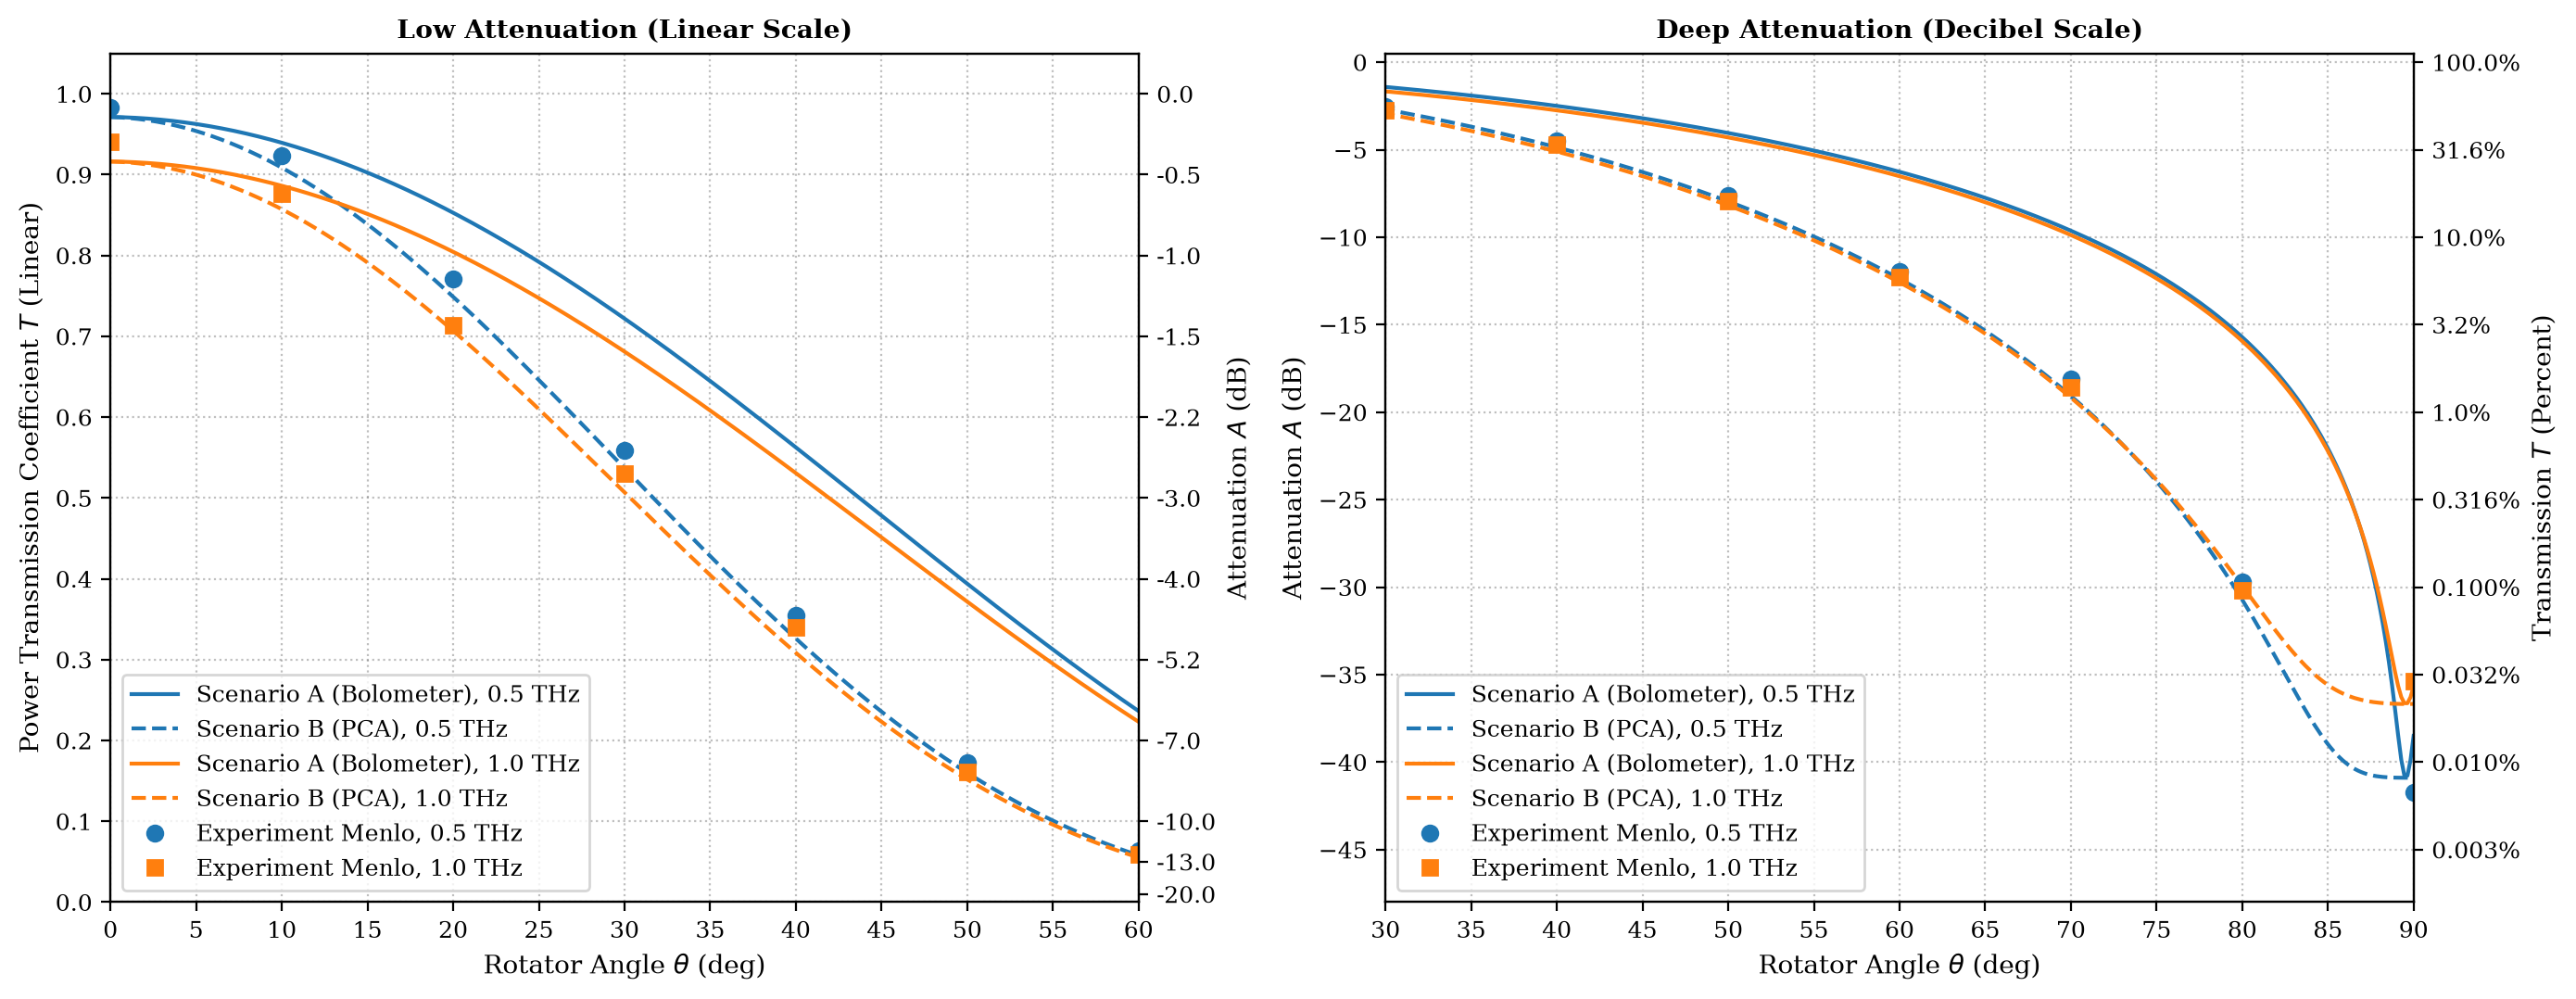
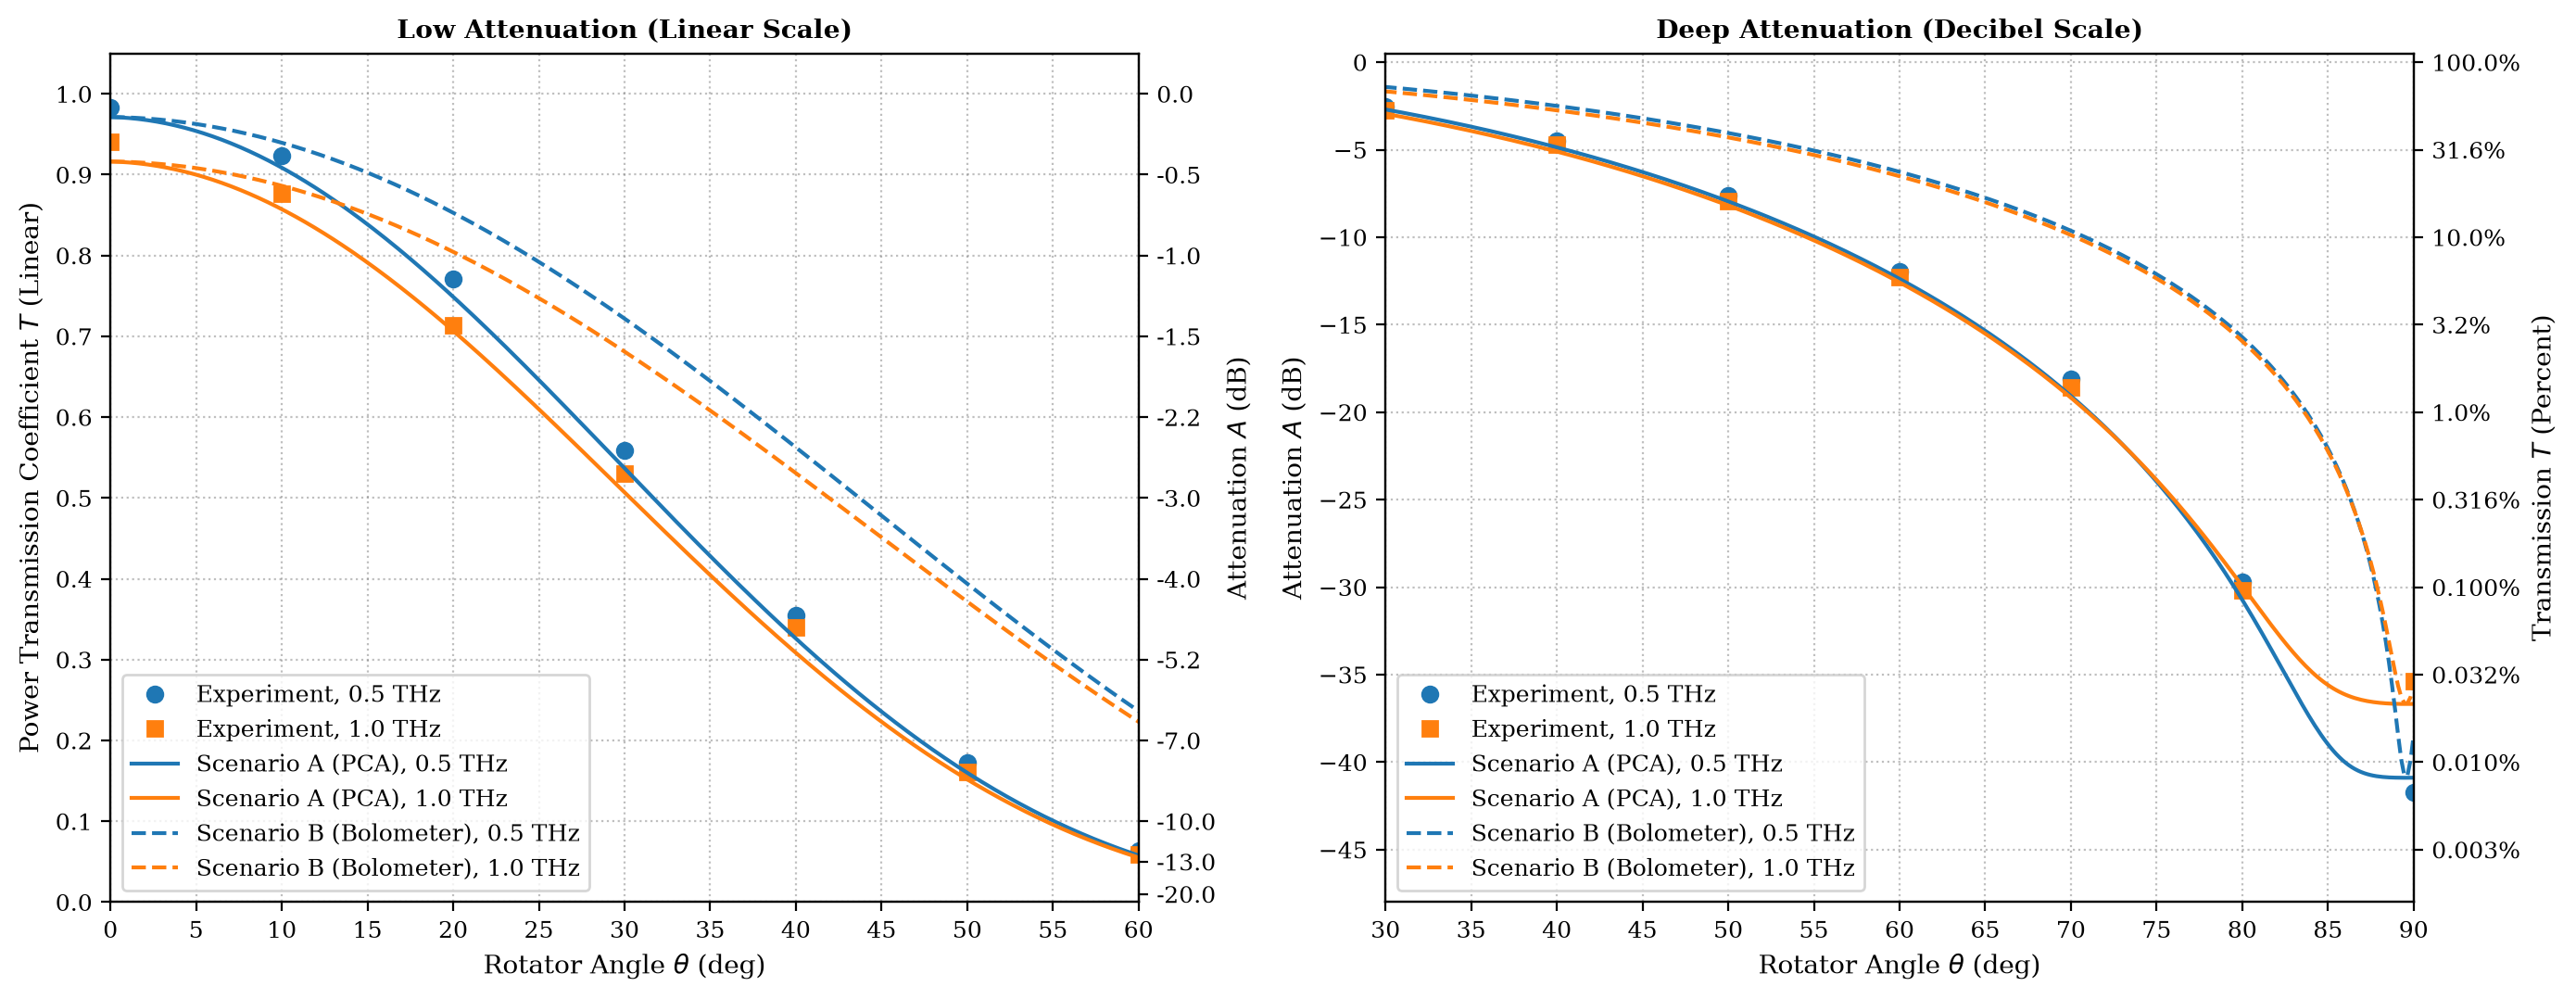
Swap Scenario A (PCA) and B (Bolometer) naming and styles, adjust legend order and error analysis titles

diff --git a/src/generate_passport_plots.py b/src/generate_passport_plots.py
@@ -35,8 +35,8 @@ c_light = 3e8
 noise_db = -45.0
 noise_power = 10**(noise_db/10)
 
-def simulate_T(angle_deg, freq_th, scenario='B'):
-    # scenario 'A': болометр (cos^2), 'B': ФПА (cos^4)
+def simulate_T(angle_deg, freq_th, scenario='A'):
+    # scenario 'A': PCA (cos^4), 'B': bolometer (cos^2)
     angle_rad = np.radians(angle_deg - offset_deg)
     lambda_m = c_light / (freq_th * 1e12)
     
@@ -49,9 +49,9 @@ def simulate_T(angle_deg, freq_th, scenario='B'):
     t_perp_eff = t_perp * np.exp(-0.5 * loss_factor_np * (freq_th ** loss_exponent))
     t_par_eff = t_par * np.exp(-0.5 * loss_factor_np * (freq_th ** loss_exponent))
     
-    if scenario == 'A':
+    if scenario == 'B':  # Bolometer
         T_total = np.abs(t_perp_eff)**2 * np.cos(angle_rad)**2 + np.abs(t_par_eff)**2 * np.sin(angle_rad)**2
-    else:
+    else:  # PCA (Scenario A)
         E_out = np.cos(angle_rad)**2 * t_perp_eff + np.sin(angle_rad)**2 * t_par_eff
         T_total = np.abs(E_out)**2
         
@@ -73,9 +73,9 @@ def generate_plots():
     except Exception as e:
         print(f"Menlo data load error: {e}. Using fallback simulation.")
         angles_exp = np.array([0, 10, 20, 30, 40, 50, 60, 70, 80, 90])
-        exp_y_05_lin = np.array([simulate_T(a, 0.5, 'B') * (1 + 0.02 * np.random.randn()) for a in angles_exp])
+        exp_y_05_lin = np.array([simulate_T(a, 0.5, 'A') * (1 + 0.02 * np.random.randn()) for a in angles_exp])
         exp_y_05_db = 10 * np.log10(exp_y_05_lin)
-        exp_y_10_lin = np.array([simulate_T(a, 1.0, 'B') * (1 + 0.03 * np.random.randn()) for a in angles_exp])
+        exp_y_10_lin = np.array([simulate_T(a, 1.0, 'A') * (1 + 0.03 * np.random.randn()) for a in angles_exp])
         exp_y_10_db = 10 * np.log10(exp_y_10_lin)
     
     angles_theory = np.linspace(0, 90, 500)
@@ -86,23 +86,26 @@ def generate_plots():
     fig, (ax1, ax2) = plt.subplots(1, 2, figsize=(14, 5.5))
     
     # Симуляция теории
-    T_A_05 = [simulate_T(a, 0.5, 'A') for a in angles_theory]
-    T_B_05 = [simulate_T(a, 0.5, 'B') for a in angles_theory]
-    T_A_10 = [simulate_T(a, 1.0, 'A') for a in angles_theory]
-    T_B_10 = [simulate_T(a, 1.0, 'B') for a in angles_theory]
+    T_PCA_05 = [simulate_T(a, 0.5, 'A') for a in angles_theory]
+    T_Bolo_05 = [simulate_T(a, 0.5, 'B') for a in angles_theory]
+    T_PCA_10 = [simulate_T(a, 1.0, 'A') for a in angles_theory]
+    T_Bolo_10 = [simulate_T(a, 1.0, 'B') for a in angles_theory]
     
     c_05 = '#1f77b4' # Синий
     c_10 = '#ff7f0e' # Оранжевый
     
     # --- Left panel: Linear scale ---
-    ax1.plot(angles_theory, T_A_05, color=c_05, linestyle='-', linewidth=1.5, label='Scenario A (Bolometer), 0.5 THz')
-    ax1.plot(angles_theory, T_B_05, color=c_05, linestyle='--', linewidth=1.5, label='Scenario B (PCA), 0.5 THz')
-    ax1.plot(angles_theory, T_A_10, color=c_10, linestyle='-', linewidth=1.5, label='Scenario A (Bolometer), 1.0 THz')
-    ax1.plot(angles_theory, T_B_10, color=c_10, linestyle='--', linewidth=1.5, label='Scenario B (PCA), 1.0 THz')
-    
     # Экспериментальные точки Menlo
-    ax1.plot(angles_exp, exp_y_05_lin, color=c_05, marker='o', linestyle='None', markersize=6, label='Experiment Menlo, 0.5 THz')
-    ax1.plot(angles_exp, exp_y_10_lin, color=c_10, marker='s', linestyle='None', markersize=6, label='Experiment Menlo, 1.0 THz')
+    ax1.plot(angles_exp, exp_y_05_lin, color=c_05, marker='o', linestyle='None', markersize=6, label='Experiment, 0.5 THz')
+    ax1.plot(angles_exp, exp_y_10_lin, color=c_10, marker='s', linestyle='None', markersize=6, label='Experiment, 1.0 THz')
+    
+    # Scenario A (PCA) - Solid line
+    ax1.plot(angles_theory, T_PCA_05, color=c_05, linestyle='-', linewidth=1.5, label='Scenario A (PCA), 0.5 THz')
+    ax1.plot(angles_theory, T_PCA_10, color=c_10, linestyle='-', linewidth=1.5, label='Scenario A (PCA), 1.0 THz')
+    
+    # Scenario B (Bolometer) - Dashed line
+    ax1.plot(angles_theory, T_Bolo_05, color=c_05, linestyle='--', linewidth=1.5, label='Scenario B (Bolometer), 0.5 THz')
+    ax1.plot(angles_theory, T_Bolo_10, color=c_10, linestyle='--', linewidth=1.5, label='Scenario B (Bolometer), 1.0 THz')
     
     ax1.set_xlabel('Rotator Angle $\\theta$ (deg)', fontsize=10)
     ax1.set_ylabel('Power Transmission Coefficient $T$ (Linear)', fontsize=10)
@@ -129,19 +132,22 @@ def generate_plots():
     ax1_db.set_ylim(0, 1.05) # Строго те же лимиты!
     
     # --- Right panel: dB scale ---
-    A_A_05 = 10 * np.log10(T_A_05)
-    A_B_05 = 10 * np.log10(T_B_05)
-    A_A_10 = 10 * np.log10(T_A_10)
-    A_B_10 = 10 * np.log10(T_B_10)
-    
-    ax2.plot(angles_theory, A_A_05, color=c_05, linestyle='-', linewidth=1.5, label='Scenario A (Bolometer), 0.5 THz')
-    ax2.plot(angles_theory, A_B_05, color=c_05, linestyle='--', linewidth=1.5, label='Scenario B (PCA), 0.5 THz')
-    ax2.plot(angles_theory, A_A_10, color=c_10, linestyle='-', linewidth=1.5, label='Scenario A (Bolometer), 1.0 THz')
-    ax2.plot(angles_theory, A_B_10, color=c_10, linestyle='--', linewidth=1.5, label='Scenario B (PCA), 1.0 THz')
+    A_PCA_05 = 10 * np.log10(T_PCA_05)
+    A_Bolo_05 = 10 * np.log10(T_Bolo_05)
+    A_PCA_10 = 10 * np.log10(T_PCA_10)
+    A_Bolo_10 = 10 * np.log10(T_Bolo_10)
     
     # Экспериментальные точки Menlo
-    ax2.plot(angles_exp, exp_y_05_db, color=c_05, marker='o', linestyle='None', markersize=6, label='Experiment Menlo, 0.5 THz')
-    ax2.plot(angles_exp, exp_y_10_db, color=c_10, marker='s', linestyle='None', markersize=6, label='Experiment Menlo, 1.0 THz')
+    ax2.plot(angles_exp, exp_y_05_db, color=c_05, marker='o', linestyle='None', markersize=6, label='Experiment, 0.5 THz')
+    ax2.plot(angles_exp, exp_y_10_db, color=c_10, marker='s', linestyle='None', markersize=6, label='Experiment, 1.0 THz')
+    
+    # Scenario A (PCA) - Solid line
+    ax2.plot(angles_theory, A_PCA_05, color=c_05, linestyle='-', linewidth=1.5, label='Scenario A (PCA), 0.5 THz')
+    ax2.plot(angles_theory, A_PCA_10, color=c_10, linestyle='-', linewidth=1.5, label='Scenario A (PCA), 1.0 THz')
+    
+    # Scenario B (Bolometer) - Dashed line
+    ax2.plot(angles_theory, A_Bolo_05, color=c_05, linestyle='--', linewidth=1.5, label='Scenario B (Bolometer), 0.5 THz')
+    ax2.plot(angles_theory, A_Bolo_10, color=c_10, linestyle='--', linewidth=1.5, label='Scenario B (Bolometer), 1.0 THz')
     
     ax2.set_xlabel('Rotator Angle $\\theta$ (deg)', fontsize=10)
     ax2.set_ylabel('Attenuation $A$ (dB)', fontsize=10)
@@ -182,7 +188,7 @@ def generate_plots():
     angles_err = np.linspace(0, 82, 300)
     tan_vals = np.tan(np.radians(angles_err))
     
-    # Для Сценария Б (ФПА)
+    # Для Сценария А (ФПА)
     err_B_05 = (40.0 / np.log(10.0)) * tan_vals * d_theta_05
     err_B_10 = (40.0 / np.log(10.0)) * tan_vals * d_theta_10
     
@@ -201,7 +207,7 @@ def generate_plots():
     
     plt.grid(True, linestyle=':', alpha=0.5, color='gray')
     plt.legend(fontsize=9, loc='upper left')
-    plt.title('Attenuation Error vs Rotator Backlash (Scenario B)', fontsize=10, fontweight='bold')
+    plt.title('Attenuation Error vs Rotator Backlash (Scenario A)', fontsize=10, fontweight='bold')
     
     plt.savefig(os.path.join(output_dir, 'passport_error.png'), dpi=200, bbox_inches='tight')
     plt.close()

diff --git a/text/passport.tex b/text/passport.tex
@@ -129,16 +129,16 @@
 	\noindent\textbf{4. Attenuator Application Scenarios} \\
 	Depending on the receiver type, the power transmission $T(\theta, \nu)$ is calculated via the Blanco model\textsuperscript{*}, where $t_{\perp}(\nu) = t_{\perp,0}(\nu) e^{-\frac{1}{2}\alpha \nu^{\gamma}}$, $t_{\parallel}(\nu) = t_{\parallel,0}(\nu) e^{-\frac{1}{2}\alpha \nu^{\gamma}}$ are loss-corrected complex amplitude transmission coefficients ($t_{\perp,0}, t_{\parallel,0}$ are pure electrodynamic Blanco coefficients, $\alpha = 0.0847$~Np/THz$^\gamma$, $\gamma = 1.58$), $\theta_{\text{offset}}$ is the systematic angular offset, and $T_{\text{noise}}$ is the noise floor:
 	\begin{itemize}[leftmargin=0.6cm, itemsep=2pt, parsep=0pt, topsep=2pt]
-		\item \textbf{Scenario A} (Bolometer / Golay Cell --- polarization-insensitive detector): \\
-		$T(\theta, \nu) = |t_{\perp}(\nu)|^2 \cos^2(\theta - \theta_{\text{offset}}) + |t_{\parallel}(\nu)|^2 \sin^2(\theta - \theta_{\text{offset}}) + T_{\text{noise}}$
-		\item \textbf{Scenario B} (PCA Menlo Tera K8 --- polarization-sensitive detector): \\
+		\item \textbf{Scenario A} (PCA Menlo Tera K8 --- polarization-sensitive detector): \\
 		$T(\theta, \nu) = \left| t_{\perp}(\nu) \cos^2(\theta - \theta_{\text{offset}}) + t_{\parallel}(\nu) \sin^2(\theta - \theta_{\text{offset}}) \right|^2 + T_{\text{noise}}$
+		\item \textbf{Scenario B} (Bolometer / Golay Cell --- polarization-insensitive detector): \\
+		$T(\theta, \nu) = |t_{\perp}(\nu)|^2 \cos^2(\theta - \theta_{\text{offset}}) + |t_{\parallel}(\nu)|^2 \sin^2(\theta - \theta_{\text{offset}}) + T_{\text{noise}}$
 	\end{itemize}
 	
 	\vspace{0.3em}
 	
 	\noindent\textbf{5. Calibration Transmission and Attenuation Curves} \\
-	For manual attenuation adjustment, use the graphical curves in Figure 2. To set the required attenuation $A$ (in dB), locate the target value on the vertical scale of Figure 2 (either right or left) and find the corresponding rotator angle $\theta$. The left panel shows the linear transmission scale for low attenuation ($0^\circ - 60^\circ$), while the right panel displays the decibel scale for deep attenuation ($30^\circ - 90^\circ$). The Menlo experimental data points in Figure 2 correspond to the Scenario B measurements and confirm the high accuracy of the Blanco model\textsuperscript{*}.
+	For manual attenuation adjustment, use the graphical curves in Figure 2. To set the required attenuation $A$ (in dB), locate the target value on the vertical scale of Figure 2 (either right or left) and find the corresponding rotator angle $\theta$. The left panel shows the linear transmission scale for low attenuation ($0^\circ - 60^\circ$), while the right panel displays the decibel scale for deep attenuation ($30^\circ - 90^\circ$). The Menlo experimental data points in Figure 2 correspond to the Scenario A measurements and confirm the high accuracy of the Blanco model\textsuperscript{*}.
 	
 	\begin{figure}[H]
 		\centering
@@ -154,7 +154,7 @@
 	\begin{minipage}[t]{0.56\textwidth}
 		\vspace{0pt}
 		\noindent\textbf{6. Angular Position Error Analysis} \\
-		Due to the trigonometric nature of the Malus law, the sensitivity of the attenuation to the rotator angle error $\Delta \theta$ increases sharply at angles $\theta > 70^\circ$. Figure 3 shows the attenuation error $\Delta A$ for Scenario B under instrumental rotator backlashes of $\Delta\theta = 0.5^\circ$ and $1.0^\circ$.
+		Due to the trigonometric nature of the Malus law, the sensitivity of the attenuation to the rotator angle error $\Delta \theta$ increases sharply at angles $\theta > 70^\circ$. Figure 3 shows the attenuation error $\Delta A$ for Scenario A under instrumental rotator backlashes of $\Delta\theta = 0.5^\circ$ and $1.0^\circ$.
 		
 		\vspace{0.4em}
 		\noindent\textbf{7. Calculation Software and Physical Limitations} \\
@@ -167,7 +167,7 @@
 		\centering
 		\includegraphics[width=\textwidth]{passport_error}
 		\vspace{-0.6em}
-		\captionof{figure}{Attenuation error $\Delta A$ as a function of the rotator angle under backlashes $\Delta\theta = 0.5^\circ$ and $1.0^\circ$.}
+		\captionof{figure}{Attenuation error $\Delta A$ as a function of the rotator angle under backlashes $\Delta\theta = 0.5^\circ$ and $1.0^\circ$ (Scenario A).}
 		\label{fig:error}
 	\end{minipage}
 	